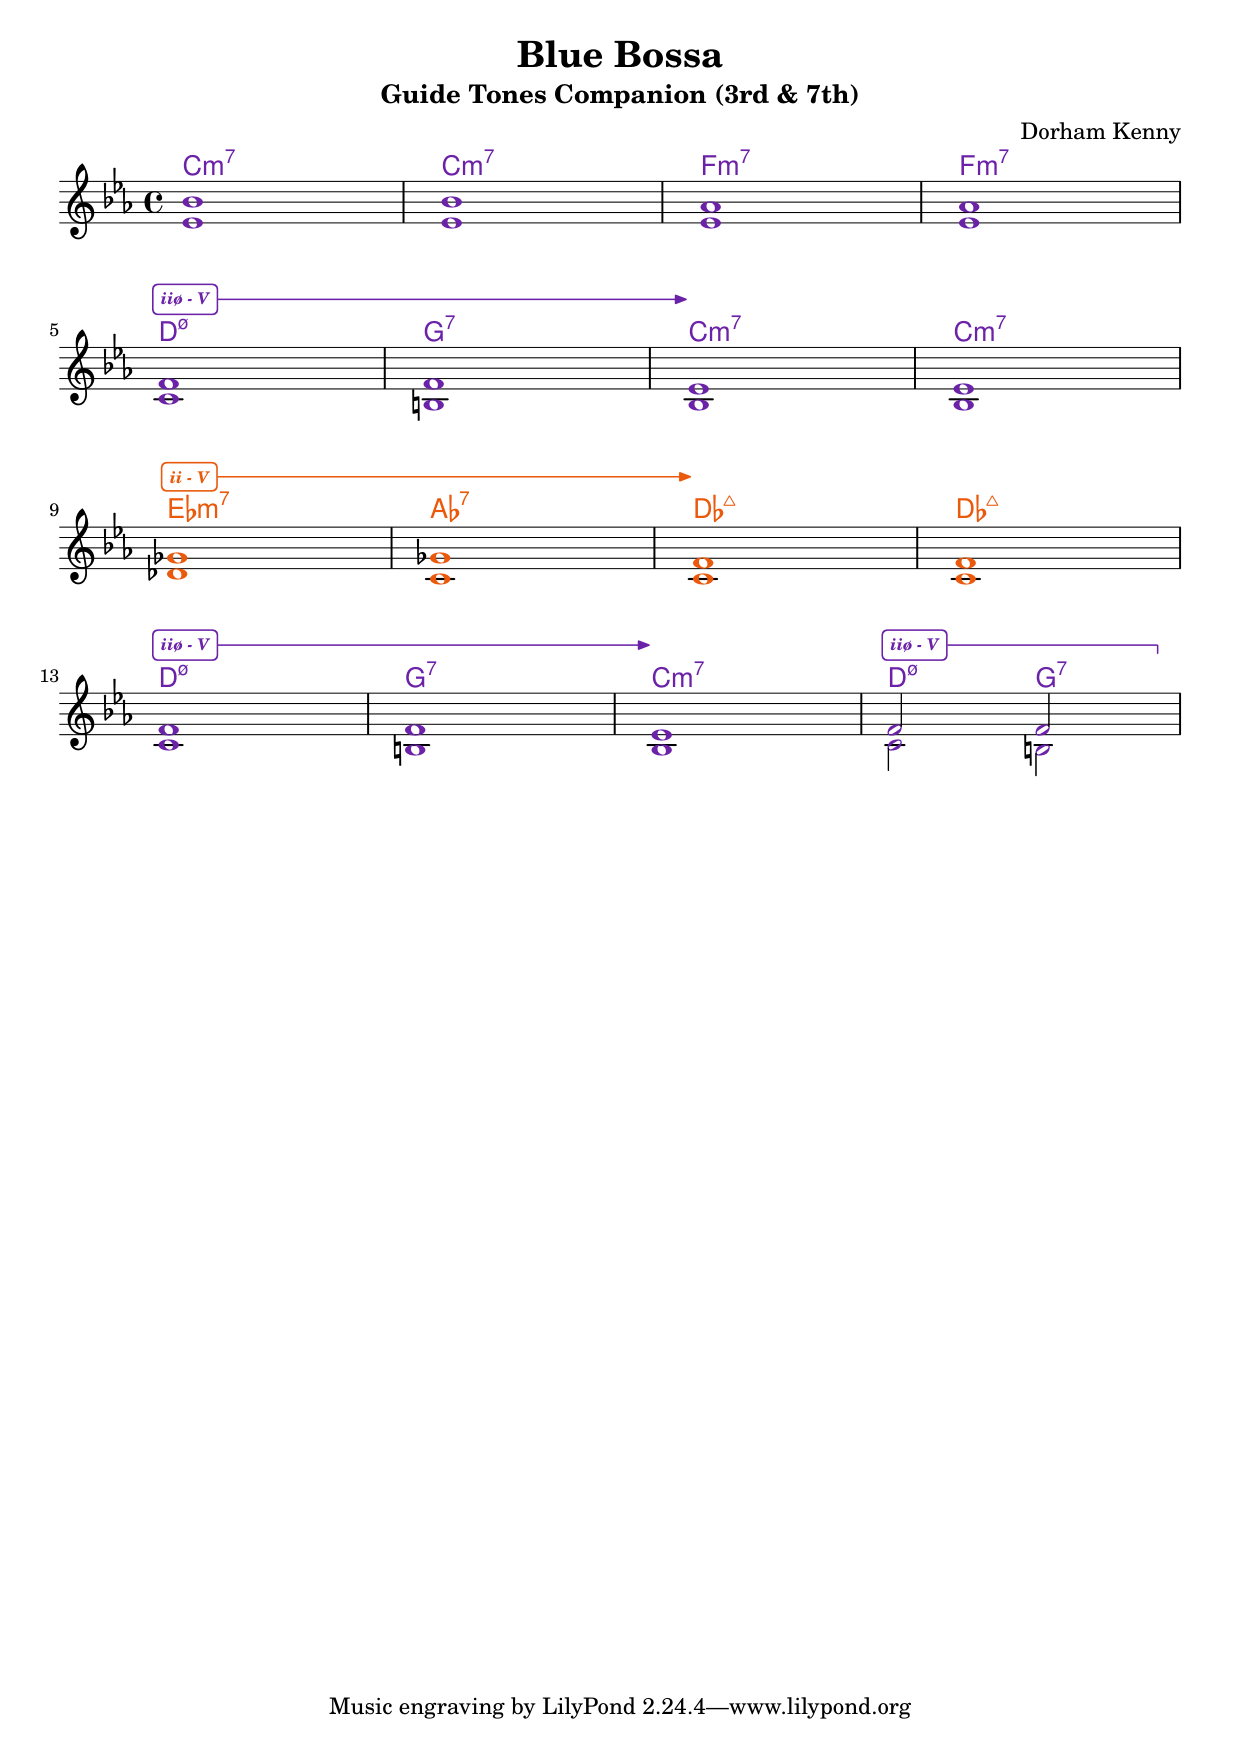
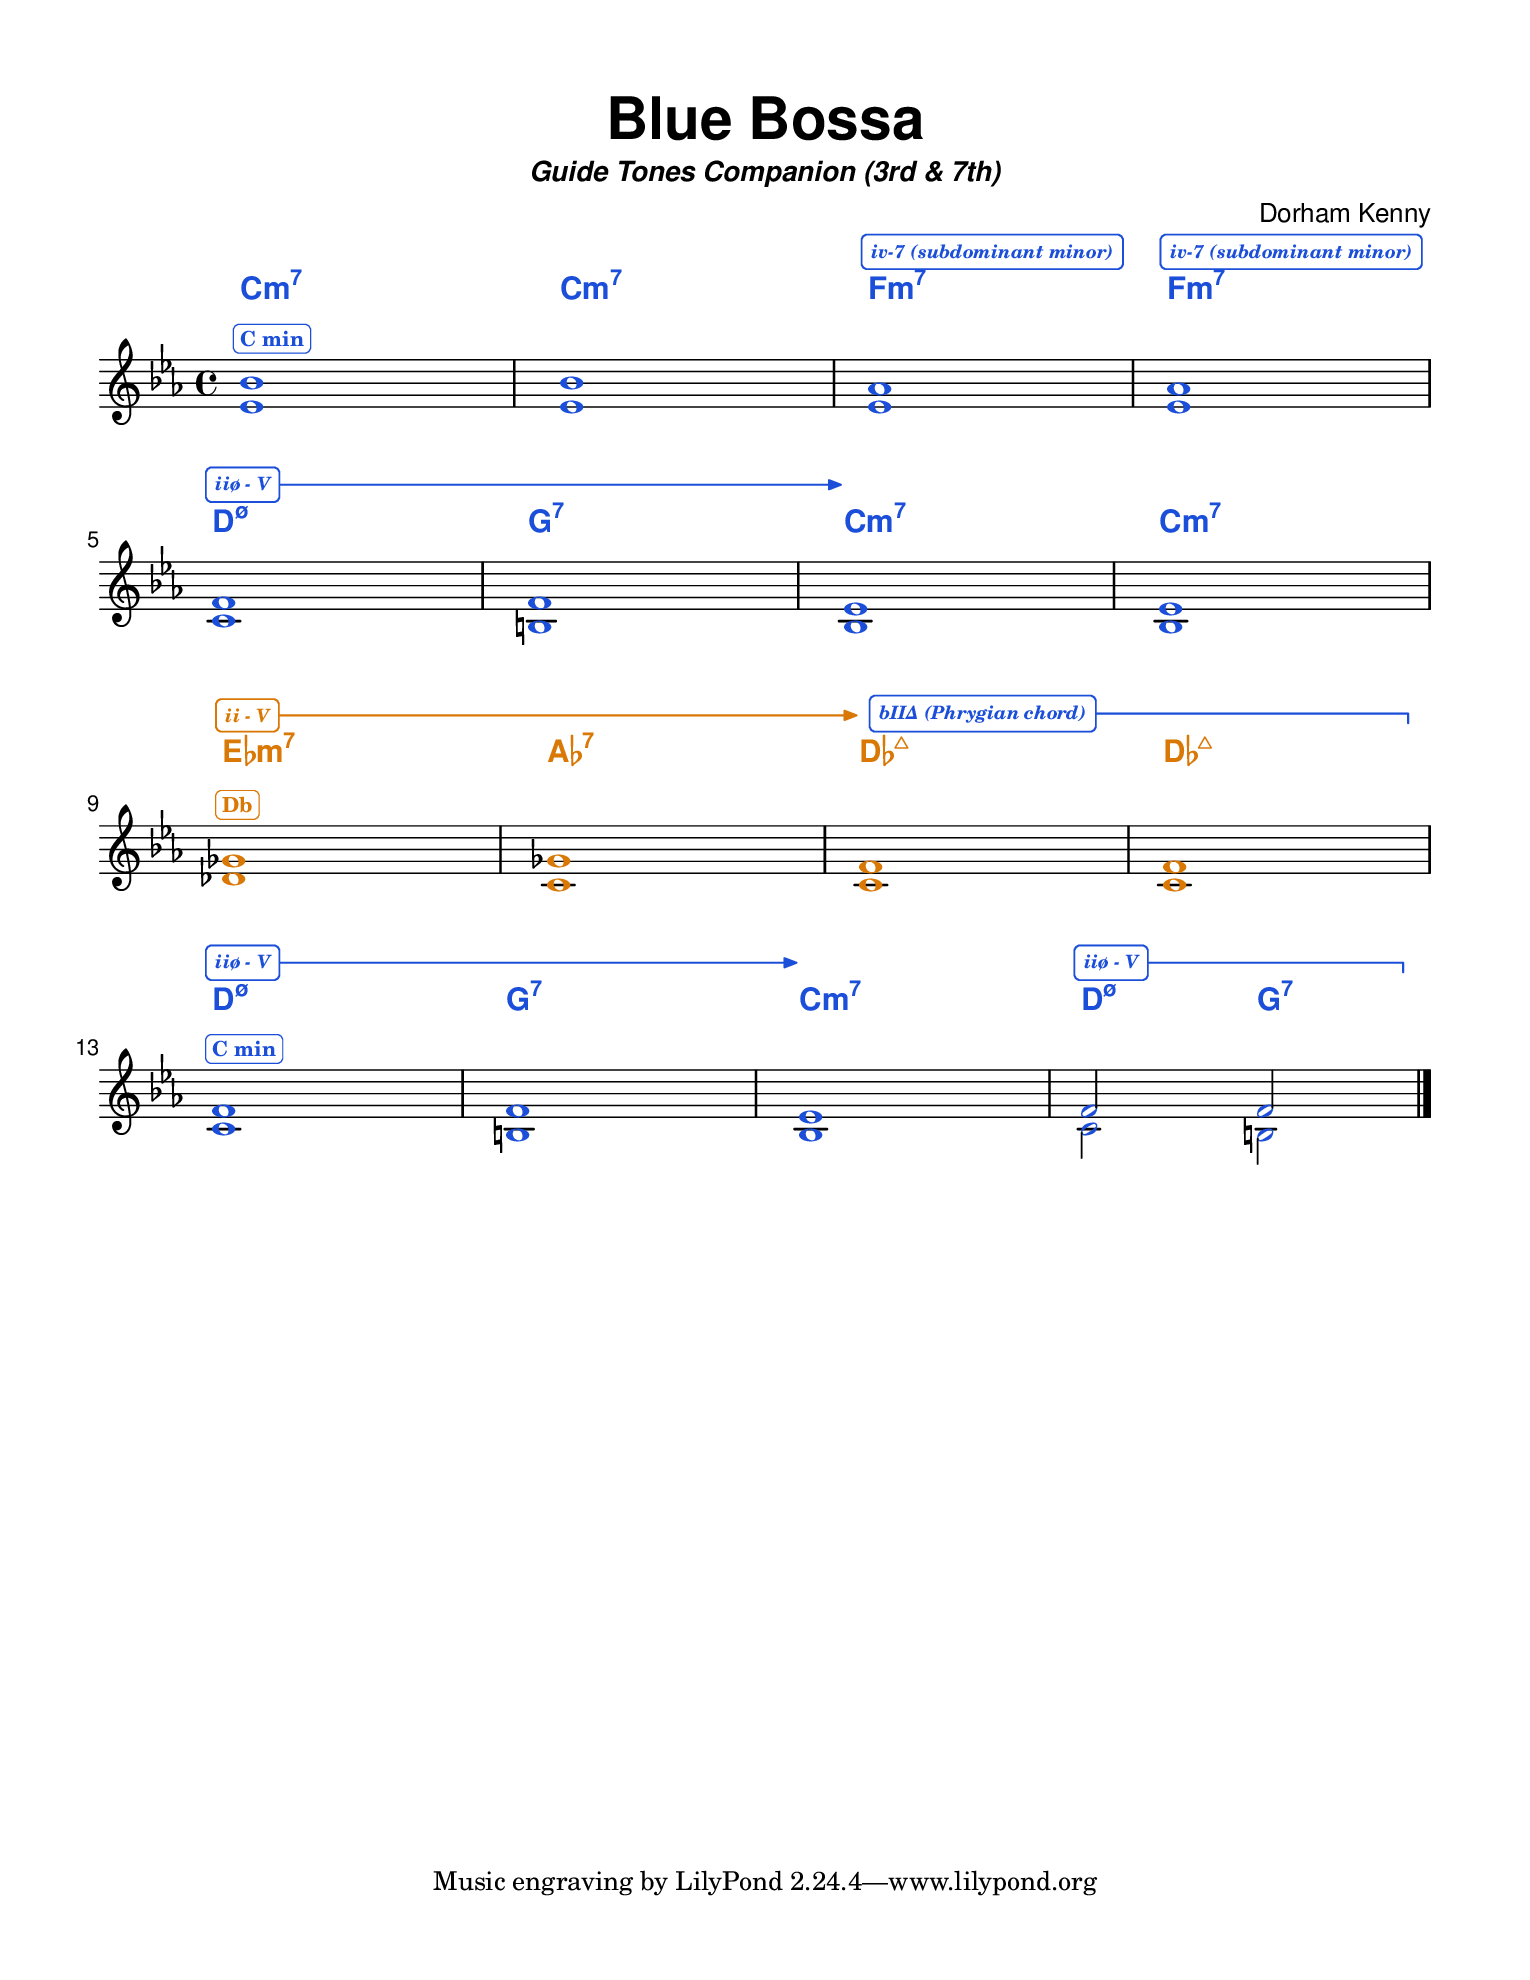
docs: update README with visual transcription, modal analysis, and fresh screenshots (#26)
• Updated feature list to include visual lead sheet transcription (PDF & photos via Gemini Vision & ADC), melody-informed Dorian modal analysis, Phrygian chromatic neighbor detection, and high-contrast tonal center color palette.
• Added Walkthrough section for 'jazz-tools transcribe' documenting ADC, OAuth2, and API key authentication options.
• Updated Walkthrough section for 'jazz-tools serve' with modern Web UI capabilities.
• Replaced companion score screenshots (Blue Bossa and Autumn Leaves) with fresh LilyPond renders reflecting latest annotations and color palette.
• Added high-resolution screenshots for the Web UI search/analysis view and visual lead sheet dropzone.

Changed region(s): [[0.0306, 0.0, 0.9492, 0.5849], [0.2756, 0.9236, 0.5512, 0.9852], [0.5818, 0.9236, 0.7349, 0.9852]]

diff --git a/README.md b/README.md
@@ -1,6 +1,6 @@
 # jazz-tools
 
-Command-line utility and jazz music theory engine to analyze jazz standards, track tonal centers and harmonic cadences, import lead sheets from **MusicXML** and **iReal Pro**, and generate voice-led **Guide Tone (3rd & 7th) Companion Sheets** for combo rehearsal, soloing practice, and study.
+Command-line utility and jazz music theory engine to analyze jazz standards, track tonal centers and harmonic cadences, import lead sheets from **MusicXML**, **iReal Pro**, or **scanned PDFs and photos**, and generate voice-led **Guide Tone (3rd & 7th) Companion Sheets** for combo rehearsal, soloing practice, and study.
 
 ---
 
@@ -8,13 +8,19 @@ Command-line utility and jazz music theory engine to analyze jazz standards, tra
 
 - **Tonal Center & Harmonic Journey Analysis**:
   - Automatically identifies local tonal centers and key modulations throughout each tune.
-  - Generates a visual, colorized **Harmonic Journey** summarizing key changes across measures.
+  - **Melody-Informed Modal Analysis**: Evaluates melody notes against minor chords to differentiate Natural Minor from **Dorian mode** and identify the underlying parent diatonic scale (e.g. $[ A \text{ dorian } (G \text{ notes}) ]$ in *Recorda Me*).
+  - **Curated High-Contrast Color Palette**: Uses distinct, high-variety colors for adjacent tonal centers to ensure clear legibility on both screen and printed sheet music.
 - **Berklee-Style Harmonic Device Annotations**:
   - **$\text{ii-V-I}$ / $\text{ii}^\varnothing\text{-V-i}$ Brackets & Arrows**: Solid overhead brackets spanning $\text{ii-V}$ pairs with an arrow pointing to the target resolution chord.
   - **Cadential Turnaround Hooks (`┐`)**: Terminal downward hooks for unresolved $\text{ii-V}$ cadences at phrase ends.
   - **Tritone Substitutions**: Dashed brackets and arrows for $\text{ii-subV}$ and isolated $\text{subV}$.
   - **Secondary Dominants**: Brackets and resolution arrows labeled relative to the home tonic ($\text{V/vi}$, $\text{V/ii}$, $\text{V/V}$, $\text{V/IV}$, etc.).
+  - **Phrygian Chromatic Neighbors & Modal Interchange**: Automatically recognizes $\flat\text{II}\Delta$ Phrygian neighbor chords and subdominant minor / modal interchange chords ($\text{iv}-7$, $\flat\text{VI}\Delta$, $\flat\text{VII}\Delta$).
   - **Multi-Measure Dominant Spanning**: Brackets expand across consecutive identical chords.
+- **Visual Lead Sheet Transcription (Scanned PDFs & Photos)**:
+  - Transcribe scanned PDF charts or photos from your phone or Real Book directly into structured music data.
+  - Powered by **Google Gemini Vision LLM** (`gemini-2.0-flash` or `gemini-1.5-pro`) to extract measure numbers, chord symbols, beats, and key signatures.
+  - Flexible authentication with zero external dependencies: supports **Google Application Default Credentials (ADC)** (`gcloud auth application-default login`), OAuth bearer tokens (`ya29...`), and Google AI Studio keys (`AIzaSy...`).
 - **Voice-Led Guide Tone Companion Generator**:
   - Voices the **3rd and 7th** of every chord on the treble staff for the exact duration of each chord hold.
   - Connects two independent polyphonic voices (Voice 1 upper stems up, Voice 2 lower stems down) via minimal motion for smooth, stepwise voice leading.
@@ -22,8 +28,10 @@ Command-line utility and jazz music theory engine to analyze jazz standards, tra
   - Automatically breaks lines to natural musical phrases (4 bars/system for tunes $\le 24$ bars, 8 bars/system for 32-bar standards).
   - Compact vertical spacing ensures charts fit cleanly on **exactly one page**.
 - **Multi-Format Ingestion**:
+  - **Visual Lead Sheets**: Scanned PDFs, PNG, JPEG, WebP.
   - **MusicXML**: Parses lead sheets from iReal Pro, MuseScore, Sibelius, or Finale.
   - **iReal Pro**: Directly imports from `irealb://` links, exported `.html` playlists, or forum chord charts.
+  - **Built-in 1,400 Standards Library**: Instant search and analysis of over 1,400 jazz standards.
 
 ---
 
@@ -83,14 +91,18 @@ Generate an annotated companion sheet complete with voice-led guide tones, tonal
 # Generate both MusicXML and publication-ready LilyPond PDF:
 jazz-tools companion Blue_Bossa.musicxml --pdf
 
+# Include tonal center key badges:
+jazz-tools companion Autumn_Leaves.musicxml --pdf --keys
+
 # Generate directly from an iReal Pro URL or playlist:
 jazz-tools companion "irealb://..." --pdf
 jazz-tools companion "MySetlist.html" --pdf
 ```
 
 #### Example Output: *Blue Bossa*
+- **Bars 3–4**: Subdominant minor label over $\text{Fm}^7$.
 - **Bars 5–7**: Minor $\text{ii}^\varnothing\text{-V}$ bracket over $\text{D}^\varnothing \rightarrow \text{G}^7$ with arrow pointing to $\text{Cm}^7$.
-- **Bars 9–11**: Major $\text{ii-V}$ bracket in $\text{D}\flat$ over $\text{E}\flat\text{m}^7 \rightarrow \text{A}\flat^7$ pointing to $\text{D}\flat^{\Delta 7}$.
+- **Bars 9–11**: Major $\text{ii-V}$ bracket in $\text{D}\flat$ resolving to $\text{D}\flat^{\Delta 7}$, annotated with $\flat\text{II}\Delta$ Phrygian modal chord.
 - **Bar 16**: Cadential turnaround hook (`┐`) over unresolved $\text{D}^\varnothing \rightarrow \text{G}^7$.
 
 <p align="center">
@@ -98,9 +110,10 @@ jazz-tools companion "MySetlist.html" --pdf
 </p>
 
 #### Example Output: *Autumn Leaves*
-- **Bars 1–3**: Major $\text{ii-V-I}$ bracket in $\text{B}\flat$.
-- **Bars 5–7**: Minor $\text{ii}^\varnothing\text{-V-i}$ bracket in $\text{G minor}$.
-- **Bars 17–20**: Tritone substitution ($\text{ii-subV}$) dashed bracket and secondary dominant resolving across the system break.
+- **Bars 1–3**: Major $\text{ii-V-I}$ bracket in $\text{G}$.
+- **Bars 5–7**: Minor $\text{ii}^\varnothing\text{-V-i}$ bracket in $\text{E minor}$.
+- **Bars 10–11**: Secondary dominant $\text{V/vi}$ resolving to $\text{Em}$.
+- **Tonal Center Badges**: Distinct high-contrast colors indicating modulations to $\text{G}$, $\text{E min}$, $\text{D min}$, and $\text{C}$.
 
 <p align="center">
   <img src="assets/autumn_leaves_companion.png" alt="Autumn Leaves Companion Sheet" width="700">
@@ -108,7 +121,30 @@ jazz-tools companion "MySetlist.html" --pdf
 
 ---
 
-### 3. Interactive Web Interface (`jazz-tools serve`)
+### 3. Visual Lead Sheet Transcription (`jazz-tools transcribe`)
+
+Transcribe scanned PDFs or smartphone photos of lead sheets directly into MusicXML and companion scores:
+
+```bash
+# Transcribe an image or scanned PDF into MusicXML and PDF:
+jazz-tools transcribe chart.png --pdf -o my_chart.musicxml
+
+# Directly passing an image or PDF auto-detects visual transcription mode:
+jazz-tools chart.pdf
+```
+
+#### Authentication Options:
+- **Application Default Credentials (ADC)** *(Recommended)*: If you use the Google Cloud CLI, run `gcloud auth application-default login` or set `export GOOGLE_APPLICATION_CREDENTIALS=/path/to/key.json`. `jazz-tools` automatically handles token refreshes without requiring any API key.
+- **Direct OAuth Token**: Pass an access token (`ya29...`) via `--api-key` or paste it directly in the web UI.
+- **Google AI Studio Key**: Get a free API key at [Google AI Studio](https://aistudio.google.com/app/apikey) and provide it via `--api-key` or `export GEMINI_API_KEY=AIzaSy...`.
+
+<p align="center">
+  <img src="assets/web_ui_vision_upload.png" alt="Visual Lead Sheet Dropzone with Gemini Vision AI" width="750">
+</p>
+
+---
+
+### 4. Interactive Web Interface (`jazz-tools serve`)
 
 Launch the built-in web interface and REST API server:
 
@@ -118,15 +154,19 @@ jazz-tools serve --port 8080
 
 Open [http://localhost:8080](http://localhost:8080) in your browser:
 
-- **Instant Search across 1,400 Jazz Standards**: Search by song name or composer (e.g. *Giant Steps*, *Autumn Leaves*, *Bill Evans*) with real-time autocompletion and one-click loading.
-- **Interactive In-Browser Notation**: Renders companion scores directly in SVG with OpenSheetMusicDisplay.
-- **Harmonic Modulation Trajectory**: Visual colored timeline of key changes and Berklee harmonic devices.
-- **Multi-Source Ingestion**: One-click demo tunes, paste `irealb://` links, or upload `.musicxml` files.
-- **One-Click Exports**: Download companion MusicXML or print-ready LilyPond PDFs.
+- **Instant Search across 1,400 Jazz Standards**: Search by song title or composer (e.g. *Giant Steps*, *Autumn Leaves*, *Bill Evans*) with real-time autocompletion and one-click loading.
+- **Visual Chart Upload Dropzone**: Drag and drop any PDF or photo of a lead sheet to transcribe and analyze it automatically.
+- **Harmonic Modulation Trajectory**: Visual timeline of key changes rendered in a curated, high-contrast palette.
+- **Identified Berklee Harmonic Devices**: Detailed breakdown of $\text{ii-V-I}$ cadences, secondary dominants, and turnaround hooks.
+- **Interactive Notation & Exports**: Toggle between vector SVG and OpenSheetMusicDisplay, and download companion MusicXML or print-ready LilyPond PDFs with one click.
+
+<p align="center">
+  <img src="assets/web_ui_preview.png" alt="Interactive Web Interface Preview" width="750">
+</p>
 
 ---
 
-### 4. Annotation Controls & Options
+### 5. Annotation Controls & Options
 
 Fine-tune annotations according to your rehearsal or pedagogical needs:
 
@@ -170,9 +210,8 @@ go build -o jazz-tools ./cmd/jazz-tools
 
 ## Running Tests
 
-Run the full test suite covering pitch class math, chord qualities, voice leading, MusicXML read/write, harmonic device detection, and iReal Pro deobfuscation:
+Run the full test suite covering pitch class math, chord qualities, voice leading, MusicXML read/write, harmonic device detection, ADC token resolution, and iReal Pro deobfuscation:
 
 ```bash
 go test -v ./...
 ```
-
